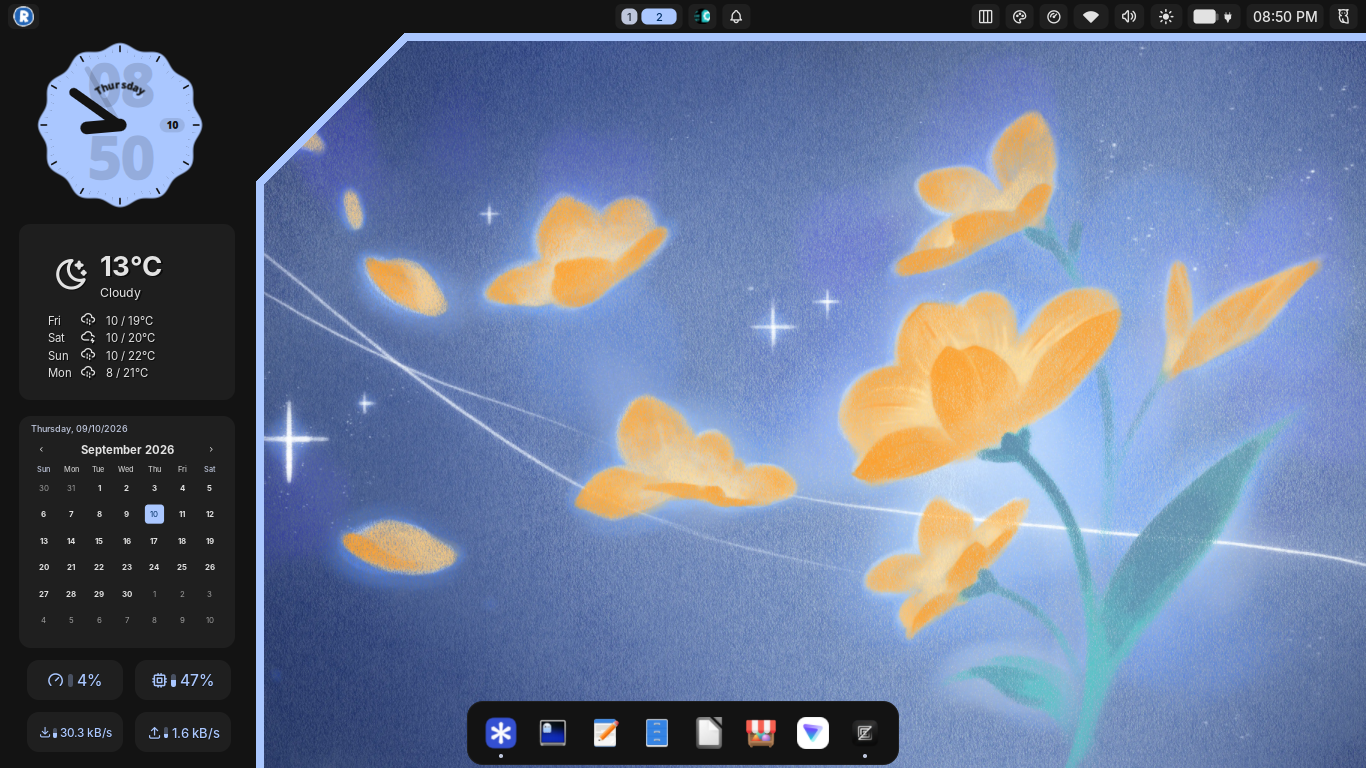
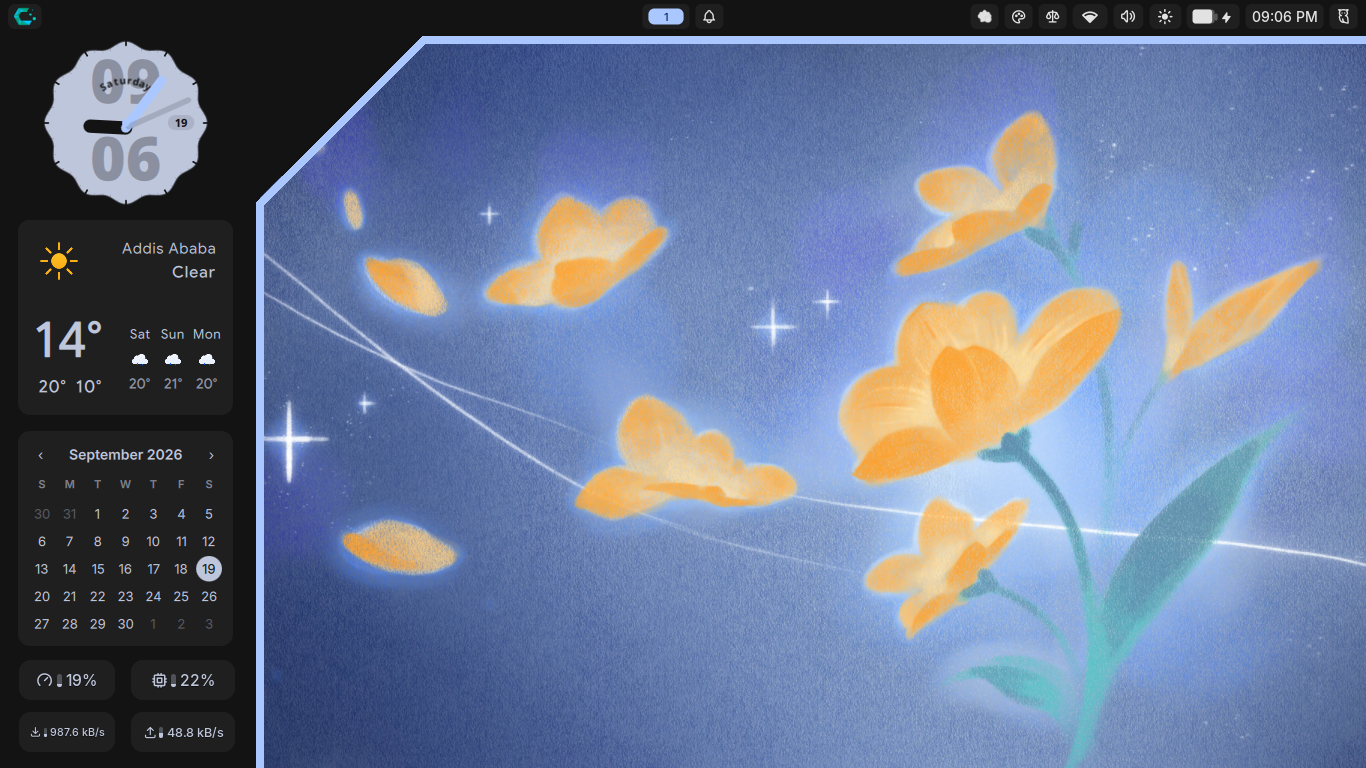
Update Screenshot

diff --git a/widgets/Weather/Weather.qml b/widgets/Weather/Weather.qml
@@ -139,11 +139,13 @@ Rectangle {
         height: 50
 
         Image {
+          asynchronous: true
+          cache: true
           anchors.horizontalCenter: parent.horizontalCenter
           fillMode: Image.PreserveAspectFit
           width: 50
           height: 50
-          source: "../../assets/" + wmoIcon(cur.weather_code)
+          source: "../../assets/" + wmoIcon(cur.weather_code) + ".svg"
         }
       }
 
@@ -153,7 +155,7 @@ Rectangle {
 
       ColumnLayout {
         width: 80
-        spacing: 6
+        spacing: 4
 
         Text {
           text: cityName
@@ -161,7 +163,7 @@ Rectangle {
           font.weight: Font.Normal
           font.pixelSize: 15
           color: Colors.secondary
-          font.letterSpacing: 1
+          font.letterSpacing: 0.8
         }
 
         Text {
@@ -171,7 +173,7 @@ Rectangle {
           font.pixelSize: 16
           color: Colors.secondary
           Layout.alignment: Qt.AlignRight
-          font.letterSpacing: 0.7
+          font.letterSpacing: 0.8
         }
       }
     }

diff --git a/widgets/Clock/Clock.qml b/widgets/Clock/Clock.qml
@@ -41,7 +41,7 @@ PanelWindow {
   WlrLayershell.layer: WlrLayershell.Background
   WlrLayershell.namespace: "material-clock"
   implicitWidth: winSize
-  implicitHeight: winSize
+  implicitHeight: winSize - 10
   color: "transparent"
 
   anchors {
@@ -52,7 +52,11 @@ PanelWindow {
   FileView {
     id: settingsFile
 
+    watchChanges: true
     path: Quickshell.env("HOME") + "/.config/quickshell/angular-frame/widgets/Clock/settings.json"
+
+    onFileChanged: reload()
+    onAdapterUpdated: writeAdapter()
 
     JsonAdapter {
       id: settings

diff --git a/shell.qml b/shell.qml
@@ -3,9 +3,12 @@ import QtQuick.Shapes
 import Quickshell
 import Quickshell.Wayland
 import "widgets/Clock"
+import "widgets/MusicIsland"
 import "widgets/Weather"
 
 ShellRoot {
+  MusicIsland {}
+
   PanelWindow {
     id: frameWindow
 

diff --git a/widgets/Weather/ForcastRow.qml b/widgets/Weather/ForcastRow.qml
@@ -82,6 +82,8 @@ Row {
       }
 
       Image {
+        asynchronous: true
+        cache: true
         source: forecastRow.forecastData ? modelData.icon : "°°°"
         width: 26
         height: 26
